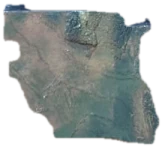
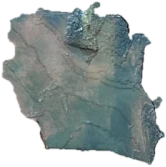
Rompecabezas: piezas recortadas de la foto armada siguiendo los cortes reales, encastre solo entre vecinas, sin superposicion al soltar
Claude-Session: https://claude.ai/code/session_01Cnxz64sNw854vTqn71nQEx

diff --git a/datos/rompecabezas.js b/datos/rompecabezas.js
@@ -1,2 +1,2 @@
-/* Piezas del rompecabezas de La Rioja (generado a partir de las fotos de la mesa). */
[1 lines of base64/hex data omitted]
+/* Piezas del rompecabezas de La Rioja: recortadas de la foto del mapa armado, siguiendo los cortes reales entre departamentos. */
[1 lines of base64/hex data omitted]

diff --git a/js/juego.js b/js/juego.js
@@ -12,7 +12,7 @@
   const W = DEF.ancho, H = DEF.alto;
   const PASO = 4;                 // tamaño de celda de las máscaras (px de escenario)
   const GIRO_RUEDA = 5, GIRO_TOQUE = 15;
-  const TOL_ROT = 12, TOL_POS = 42;
+  const TOL_ROT = 10, TOL_POS = 36;
   const rad = (d) => d * Math.PI / 180;
   const norm = (d) => { d = ((d + 180) % 360 + 360) % 360 - 180; return d; };
 
@@ -105,7 +105,7 @@
   // ¿el conjunto "ms" está en una posición válida (dentro de la mesa y sin tapar a las demás)?
   function valido(ms, ignorar, tope) {
     for (const p of ms) {
-      if (p.x < 24 || p.x > W - 24 || p.y < 24 || p.y > H - 24) return false;
+      if (p.x < 12 || p.x > W - 12 || p.y < 12 || p.y > H - 12) return false;
     }
     for (const p of ses.piezas) {
       if (ms.indexOf(p) >= 0 || (ignorar !== undefined && p.g === ignorar)) continue;
@@ -143,7 +143,7 @@
     for (const a of ms) {
       const fa = a.th - a.d.rot;
       for (const b of ses.piezas) {
-        if (b.g === g) continue;
+        if (b.g === g || a.d.vec.indexOf(b.id) < 0) continue;
         const fb = b.th - b.d.rot, er = norm(fa - fb);
         if (Math.abs(er) > TOL_ROT) continue;
         const rb = rad(fb), mx = a.d.meta[0] - b.d.meta[0], my = a.d.meta[1] - b.d.meta[1];
@@ -160,10 +160,11 @@
     girar(ms, mejor.a.x, mejor.a.y, norm(mejor.fb - fa));
     const dx = mejor.ex - mejor.a.x, dy = mejor.ey - mejor.a.y;
     ms.forEach((p) => pose(p, p.x + dx, p.y + dy, p.th));
-    if (!dentro(ms)) { restaurar(ms, base); return false; }
     const gb = mejor.b.g;
     ses.piezas.forEach((p) => { if (p.g === g) p.g = gb; });
+    meter(miembros(gb));
     ms.forEach((p) => { ponerEl(p); p.el.classList.remove('encaja'); void p.el.offsetWidth; p.el.classList.add('encaja'); });
+    intentarEncaje(gb);          // el conjunto ya unido puede encastrar con otros vecinos
     despejar(gb);
     revisarFinal();
     return true;
@@ -171,9 +172,18 @@
 
   /* ---------- "levantar y apoyar": las piezas pasan unas sobre otras al arrastrar,
      pero al soltarlas nunca quedan superpuestas ---------- */
-  const TOPE_REPOSO = 24;
+  const TOPE_REPOSO = 4;
   function dentro(ms) {
-    return ms.every((p) => p.x >= 24 && p.x <= W - 24 && p.y >= 24 && p.y <= H - 24);
+    return ms.every((p) => p.x >= 12 && p.x <= W - 12 && p.y >= 12 && p.y <= H - 12);
+  }
+  // si el conjunto asoma de la mesa, lo corre hacia adentro (siempre que entre)
+  function meter(ms) {
+    let dx = 0, dy = 0;
+    ms.forEach((p) => {
+      if (p.x < 12) dx = Math.max(dx, 12 - p.x); if (p.x > W - 12) dx = Math.min(dx, W - 12 - p.x);
+      if (p.y < 12) dy = Math.max(dy, 12 - p.y); if (p.y > H - 12) dy = Math.min(dy, H - 12 - p.y);
+    });
+    if (dx || dy) { ms.forEach((p) => pose(p, p.x + dx, p.y + dy, p.th)); ms.forEach(ponerEl); }
   }
   function deslizar(ms) {
     ms.forEach((p) => { p.el.classList.add('desliza'); });
@@ -210,8 +220,10 @@
     otros.forEach((og) => {
       const os = miembros(og);
       if (!os.some((o) => ms.some((m) => chocan(m, o, TOPE_REPOSO)))) return;
+      if (os.length >= ms.length) return;           // no se mueve lo que ya estaba más armado
       if (buscarLibre(os)) { deslizar(os); os.forEach(ponerEl); }
     });
+    asentar(g, null);
   }
 
   function revisarFinal() {
@@ -275,13 +287,13 @@
       // la pieza levantada no sale de la mesa
       let ex = 0, ey = 0;
       arr.ms.forEach((p) => {
-        ex = Math.max(ex, 24 - p.x, p.x - (W - 24)); ey = Math.max(ey, 24 - p.y, p.y - (H - 24));
+        ex = Math.max(ex, 12 - p.x, p.x - (W - 12)); ey = Math.max(ey, 12 - p.y, p.y - (H - 12));
       });
       if (ex || ey) {
         let cx = 0, cy = 0;
         arr.ms.forEach((p) => {
-          if (p.x < 24) cx = Math.max(cx, 24 - p.x); if (p.x > W - 24) cx = Math.min(cx, W - 24 - p.x);
-          if (p.y < 24) cy = Math.max(cy, 24 - p.y); if (p.y > H - 24) cy = Math.min(cy, H - 24 - p.y);
+          if (p.x < 12) cx = Math.max(cx, 12 - p.x); if (p.x > W - 12) cx = Math.min(cx, W - 12 - p.x);
+          if (p.y < 12) cy = Math.max(cy, 12 - p.y); if (p.y > H - 12) cy = Math.min(cy, H - 12 - p.y);
         });
         mover(arr.ms, arr.base, tx + cx, ty + cy);
       }
@@ -406,5 +418,5 @@
     vista = null;
   }
 
-  C.juego = { iniciar: iniciar, detener: detener, _ses: () => ses, _vista: () => vista, _encajar: (g) => intentarEncaje(g), _dibujar: () => dibujarTodo() };
+  C.juego = { iniciar: iniciar, detener: detener, _ses: () => ses, _vista: () => vista, _encajar: (g) => intentarEncaje(g), _dibujar: () => dibujarTodo(), _chocan: (a, b, t) => chocan(ses.piezas.find((p) => p.id === a), ses.piezas.find((p) => p.id === b), t), _valido: (g) => valido(miembros(g), undefined, TOPE_REPOSO), _libre: (g) => { const ms = miembros(g); const b = guardar(ms); const ok = buscarLibre(ms); restaurar(ms, b); return ok; } };
 })();

diff --git a/index.html b/index.html
@@ -12,7 +12,7 @@
   <link rel="icon" href="images/logo/favicon.svg" type="image/svg+xml">
   <link rel="preload" href="fonts/im-fell-english-latin-400-normal.woff2" as="font" type="font/woff2" crossorigin>
   <link rel="preload" href="fonts/atkinson-hyperlegible-latin-400-normal.woff2" as="font" type="font/woff2" crossorigin>
-  <link rel="stylesheet" href="css/estilos.css?v=18">
+  <link rel="stylesheet" href="css/estilos.css?v=19">
 </head>
 <body>
   <a class="saltar" href="#escenario">Saltar al recorrido</a>
@@ -110,12 +110,12 @@
     </div>
   </div>
 
-  <script src="datos/muestra.js?v=18"></script>
-  <script src="js/nucleo.js?v=18"></script>
-  <script src="datos/rompecabezas.js?v=18"></script>
-  <script src="js/juego.js?v=18"></script>
-  <script src="js/ventanas.js?v=18"></script>
-  <script src="js/sonido.js?v=18"></script>
-  <script src="js/inicio.js?v=18"></script>
+  <script src="datos/muestra.js?v=19"></script>
+  <script src="js/nucleo.js?v=19"></script>
+  <script src="datos/rompecabezas.js?v=19"></script>
+  <script src="js/juego.js?v=19"></script>
+  <script src="js/ventanas.js?v=19"></script>
+  <script src="js/sonido.js?v=19"></script>
+  <script src="js/inicio.js?v=19"></script>
 </body>
 </html>
